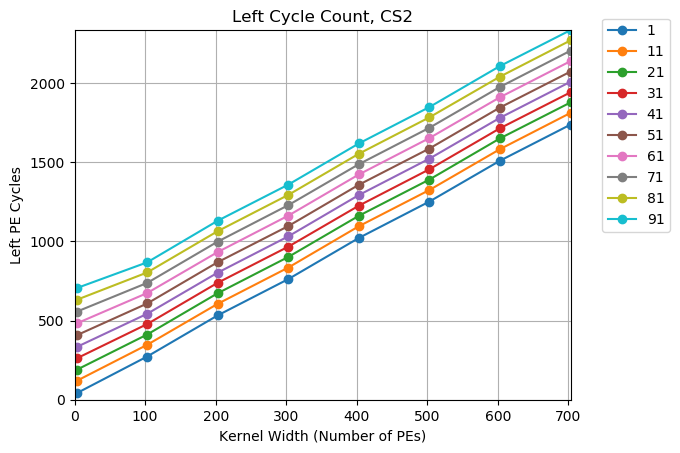
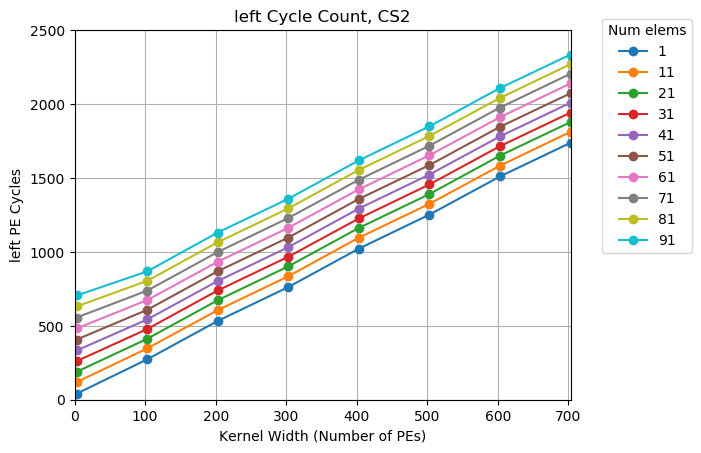
add plots for all three sides

diff --git a/sliding-window-rpc/results/plot.py b/sliding-window-rpc/results/plot.py
@@ -17,9 +17,13 @@ peta = 1.E15
 
 parser = argparse.ArgumentParser()
 parser.add_argument('--cs2', help='run on CS-2', default=False, action='store_true')
+parser.add_argument('--side', help='left, middle, or right', type=str, default='left')
 args = parser.parse_args()
 
 cs2 = args.cs2
+side = args.side
+assert(side in {'left', 'middle', 'right'})
+
 
 ####
 
@@ -34,6 +38,7 @@ max_left_cycles   = max(df['left_cycles'])
 max_middle_cycles = max(df['middle_cycles'])
 max_right_cycles  = max(df['right_cycles'])
 max_cycles = max(max_left_cycles, max_middle_cycles, max_right_cycles)
+max_cycles = 2500
 
 max_kernel_width = max(df['kernel_width'])
 
@@ -42,20 +47,20 @@ num_elems = list(dict.fromkeys(df['num_elems'].to_list()))
 
 # Plot bandwidth
 for num_elem in num_elems:
-  left_cycles = df.loc[df['num_elems'] == num_elem, 'left_cycles']
+  cycles = df.loc[df['num_elems'] == num_elem, side + '_cycles']
   kernel_width = df.loc[df['num_elems'] == num_elem, 'kernel_width']
-  plt.plot(kernel_width, left_cycles, '-o', label=num_elem)
+  plt.plot(kernel_width, cycles, '-o', label=num_elem)
 
-plt.legend(bbox_to_anchor=(1.05, 1.05))
+plt.legend(bbox_to_anchor=(1.05, 1.05), title='Num elems')
 plt.grid()
 plt.xlabel('Kernel Width (Number of PEs)')
-plt.ylabel('Left PE Cycles')
+plt.ylabel(side + ' PE Cycles')
 plt.xlim([0, max_kernel_width])
 plt.ylim([0, max_cycles])
 
 if not cs2:
-  plt.title("Left Cycle Count, Simulation")
-  plt.savefig('left_cycle_sim.png', bbox_inches='tight')
+  plt.title(side + ' Cycle Count, Simulation')
+  plt.savefig(side + '_cycle_sim.png', bbox_inches='tight')
 else:
-  plt.title("Left Cycle Count, CS2")
-  plt.savefig('left_cycle_cs2.png', bbox_inches='tight')
+  plt.title(side + ' Cycle Count, CS2')
+  plt.savefig(side + '_cycle_cs2.png', bbox_inches='tight')
